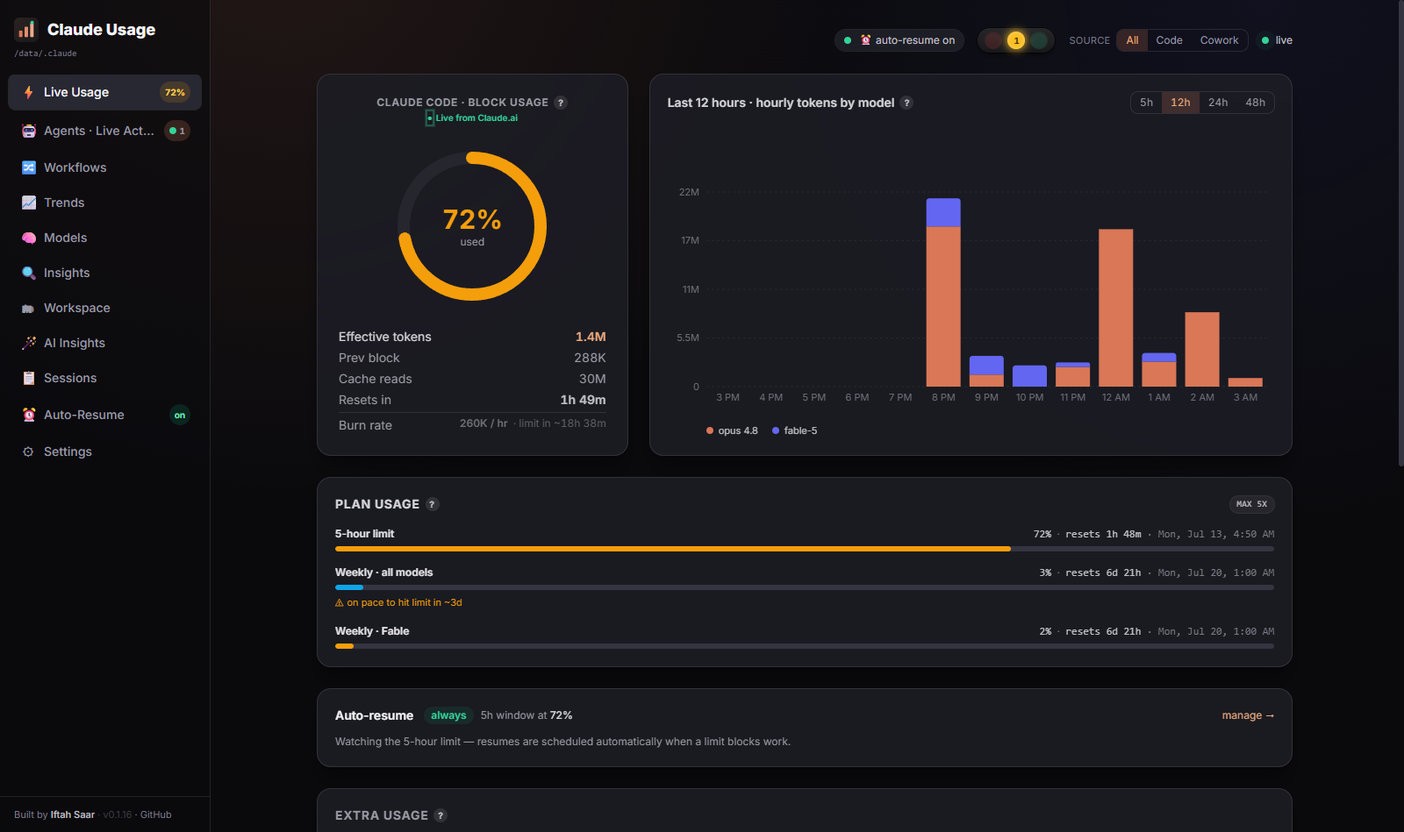
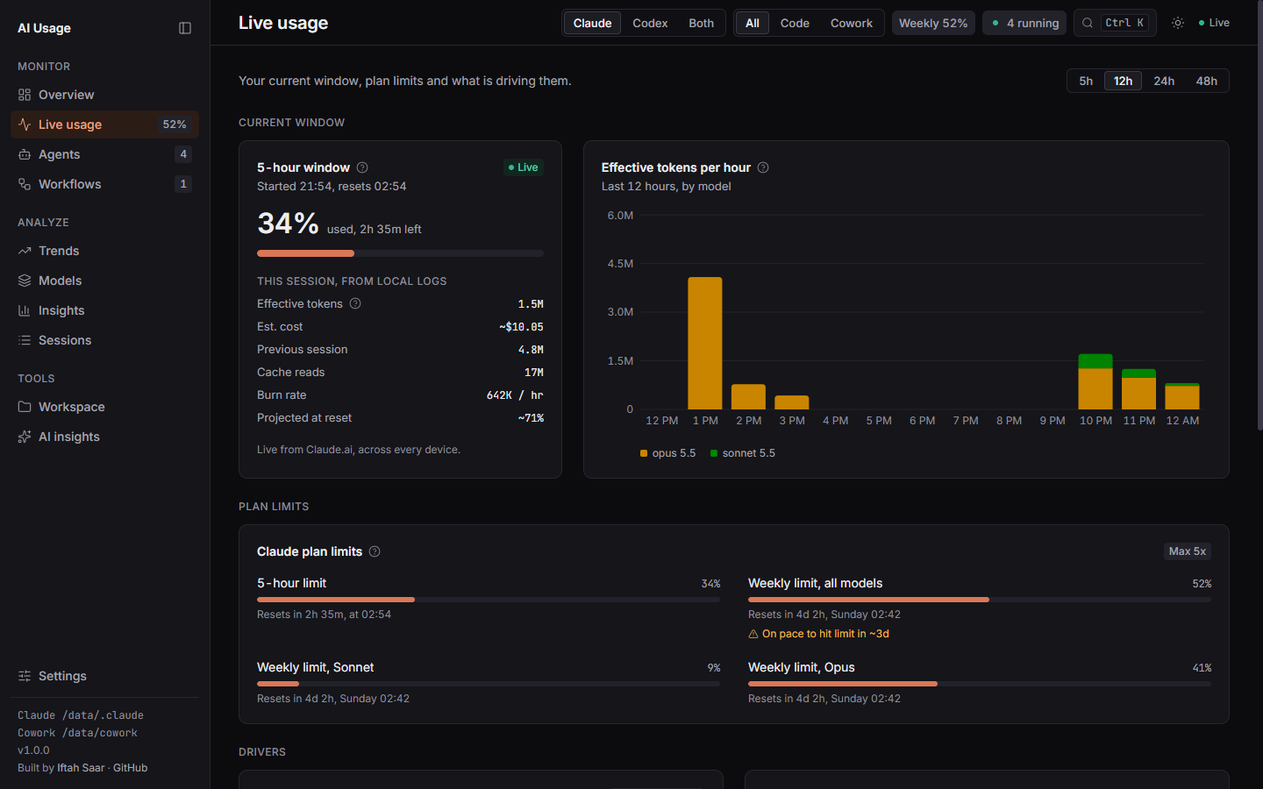
docs: 1.0.0 — README for the redesigned app, new screenshots, changelog
Bump the version to 1.0.0 by hand (explicit release decision; CI's patch
bump is a no-op when the branch version already differs from main and the
changelog entry exists). README describes the new shell, Overview, themes
and command palette; screenshots are re-shot from the redesigned UI with
placeholder project names and titles.

diff --git a/README.md b/README.md
@@ -1,42 +1,59 @@
-# Claude Dashboard
+# AI Usage
 
-A beautiful, **local-first** dashboard for your [Claude Code](https://claude.com/claude-code) usage. It reads the JSON logs Claude Code already writes to `~/.claude` and visualizes them — no API key, no account login. Your usage logs never leave your machine. Use the ChatGPT desktop app too? Its Codex transcripts in `~/.codex` get the same treatment, and a **Claude / Codex / Both** switcher in the header re-points the whole dashboard at either platform — or puts them side by side.
+A calm, **local-first** dashboard for your [Claude Code](https://claude.com/claude-code) usage (the `claude-dashboard` repository; the app calls itself **AI Usage**). It reads the JSON logs Claude Code already writes to `~/.claude` and visualizes them — no API key, no account login. Your usage logs never leave your machine. Use Claude Cowork or the ChatGPT desktop app too? Cowork sessions are picked up from the same kind of logs, and the Codex transcripts in `~/.codex` get the same treatment: a **Claude / Codex / Both** switcher in the top bar re-points the whole dashboard at either platform — or puts them side by side.
 
-Two features are optional and opt-in network paths, both privacy-hardened: **anonymous product analytics** (PostHog — feature-usage events only, switchable off) and **AI Insights** (sends *aggregates only* — never transcripts or file paths — to a model you choose). See [Privacy & telemetry](#privacy--telemetry).
+Two features are optional and opt-in network paths, both privacy-hardened: **anonymous product analytics** (PostHog — feature-usage events only, switchable off) and **AI insights** (sends *aggregates only* — never transcripts or file paths — to a model you choose). See [Privacy & telemetry](#privacy--telemetry).
 
-![Claude Dashboard · Live Usage](.github/screenshots/live-usage.png)
+![AI Usage · Overview](.github/screenshots/overview.png)
 
 ## Interactive Features & Tour
 
-The dashboard is organized as a left **sidebar** with ten destinations. Views are deep-linkable (e.g. `/agents`, `/workflows`, `/ai`), live badges on the sidebar show running agents, the current 5-hour block % and in-flight workflows, and **toast notifications** surface update-available, connection, and account-mode notices.
+The dashboard is a grouped **sidebar** plus a sticky **top bar**. Pages are deep-linkable (e.g. `/overview`, `/agents`, `/workflows`, `/ai`; an unknown path shows Overview), the sub-views inside a page have their own link (`/trends?view=efficiency`), and **toast notifications** surface update-available, connection, and account-mode notices.
+
+### Layout & navigation
+
+* **Sidebar** — the pages in three groups: **Monitor** (Overview, Live usage, Agents, Workflows), **Analyze** (Trends, Models, Insights, Sessions) and **Tools** (Workspace, AI insights), with Settings pinned below them. It collapses to a narrow icon rail, and below 1024 px it turns into a drawer you open from the top bar. Live badges show agents that are running or waiting on you, the current binding limit % (the fuller of the 5-hour and weekly windows) and in-flight workflows.
+* **Top bar** — the page title, the **platform switcher** (Claude / Codex / Both), the **surface toggle** (All / Code / Cowork), a **running-agents chip**, the **limit status**, the command palette button, the theme toggle and a live-data indicator. The surface toggle shows only when Cowork data exists and the platform is Claude, and is hidden on Agents.
+* **Command palette** — press **Ctrl+K** (**⌘K** on macOS) to jump to any page, switch the platform, surface or theme, jump straight to a Settings section, or export the current view as CSV / JSON.
+* **Themes** — dark (the default) and light, switched from the top bar, **Settings → Display** or the palette, and remembered per browser. The look is flat and quiet with a single accent colour and a 12 px minimum text size; Inter and JetBrains Mono ship with the app, so the UI never requests Google Fonts.
+* **Screen sizes** — the layout holds down to tablet width (about 768 px).
+
+![Command palette · Ctrl+K to jump, switch and export](.github/screenshots/command-palette.png)
+
+![Light theme · the same Overview in light](.github/screenshots/light-theme.png)
 
 ### Platform switcher · Claude / Codex / Both
 
-There is no separate Codex tab. When Codex data exists in `~/.codex`, a **platform** switcher appears in the header and re-points the *whole* dashboard:
+There is no separate Codex page. When Codex data exists in `~/.codex`, a **platform** switcher appears in the top bar and re-points the *whole* dashboard:
 
-* **Claude** — Claude Code (plus Cowork, via the secondary Code / Cowork / All source toggle). Exactly the dashboard below, unchanged. Users without Codex data never see the switcher and never leave this mode.
-* **Codex** — the same tabs, reading the ChatGPT desktop agent instead: live 5-hour / weekly Codex limits, plan tier and credits on **Live**; running threads and their **guardian auto-reviews** on **Agents**; GPT models and OpenAI rate cards on **Models**; Codex threads with their real project paths on **Sessions**. Claude-only destinations (Workflows, Workspace) drop out of the sidebar, as do the panels with no Codex counterpart (git branches, permission rejections, slash commands).
+* **Claude** — Claude Code (plus Cowork, via the secondary All / Code / Cowork surface toggle). Exactly the dashboard below, unchanged. Users without Codex data never see the switcher and never leave this mode.
+* **Codex** — the same pages, reading the ChatGPT desktop agent instead: live 5-hour / weekly Codex limits, plan tier and credits on **Live usage**; running threads and their **guardian auto-reviews** on **Agents**; GPT models and OpenAI rate cards on **Models**; Codex threads with their real project paths on **Sessions**. Every page keeps the same panels as under Claude; the one page that drops out of the sidebar is **Workflows**, since Codex records no workflow runs.
 * **Both** — everything combined, plus the comparisons that only exist side by side: a **Claude vs Codex daily chart** and a three-way **Claude Code / Cowork / Codex** split on Trends, a Claude/Codex sub-label on every spend card, and both vendors' rate cards on Models.
 
-### 1. ⚡ Live Usage
-* **Block Gauge**: The current 5-hour block as a radial gauge — effective tokens, % of limit, previous block, cache reads, live **burn rate** (tokens/hr) and a projected time-to-limit.
-* **Plan Usage**: Your real subscription ceilings pulled live from Claude.ai — the **5-hour limit**, the **weekly all-models limit**, and **per-model weekly caps** (Opus / Sonnet / Fable / Cowork). Each bar shows % used, an exact countdown **and the absolute reset date & time**, plus a burn-rate forecast ("on pace to hit limit in ~3d") and your plan tier.
-* **Extra Usage**: Anthropic's overage / credit pool — spend against the monthly limit, or an explanation when your org hasn't enabled it.
-* **What's contributing to your limits usage?**: A cost-weighted breakdown of the day and week by **skill, subagent, plugin and MCP server**.
-* **Spending limits**: Client-side USD caps (daily / weekly / monthly) with progress gauges.
+### Overview
+The landing page: three groups that answer "where do I stand?" at a glance.
+* **Limits**: The 5-hour and weekly windows for each platform, with % used and the reset time.
+* **Running now**: The agents working right now, the ones waiting on you, and running workflows.
+* **Today**: Estimated spend and effective tokens so far today against your 7-day average.
 
-![Plan usage · 5-hour, weekly and per-model caps with exact reset times](.github/screenshots/plan-usage.png)
+### Live usage
+Four groups, from the current window down to your own caps.
+* **Current window**: The current 5-hour block as a gauge — effective tokens, % of limit, previous block, cache reads, live **burn rate** (tokens/hr) and a projected time-to-limit — beside a usage chart you can re-window by hours.
+* **Plan limits**: Your real subscription ceilings pulled live from Claude.ai — the **5-hour limit**, the **weekly all-models limit**, and **per-model weekly caps** (Opus / Sonnet / Fable / Cowork). Each bar shows % used, an exact countdown **and the absolute reset date & time**, plus a burn-rate forecast ("on pace to hit limit in ~3d") and your plan tier. Next to it, **Extra usage**: Anthropic's overage / credit pool — spend against the monthly limit, or an explanation when your org hasn't enabled it.
+* **Drivers**: What's contributing to your limits usage — a cost-weighted breakdown of the day and week by **skill, subagent, plugin and MCP server** — and the **limit hits** you ran into.
+* **Spend against your caps**: Client-side USD caps (daily / weekly / monthly) with progress gauges.
 
-### 2. 🤖 Agents · Live Activity
-Real-time view of what Claude Code is doing **right now**, reconstructed live from the session transcripts on disk.
-* **Live Main Sessions**: Each active session shows its first prompt, project, git branch, model, and effective tokens.
-* **Live Subagents**: Spawned subagents (Task/Explore/etc.) appear nested under their parent session with their own model and token counts while they run, then settle into a recently-completed state.
-* **Traffic-light status**: Green = finished, amber = running, **red = waiting for you**. A red agent lights the header signal and the sidebar badge from any tab, and can raise a **browser notification and/or chime** (configurable in Settings).
-* **Idle Lifecycle**: Main sessions dim after 30s of inactivity and drop after 60s; completed subagents no longer keep an idle parent card alive.
+![Live usage · current window, plan limits, drivers and spend caps](.github/screenshots/live-usage.png)
 
-![Agents · Live Activity, with the sidebar and nested subagents](.github/screenshots/agents.png)
+### Agents
+Real-time view of what your agents are doing **right now**, reconstructed live from the session transcripts on disk.
+* **Now**: Each active main session shows its first prompt, project, git branch, model, and effective tokens, with its spawned subagents (Task/Explore/etc.) nested beneath it with their own model and token counts while they run, then settling into a recently-completed state.
+* **Traffic-light status**: Green = finished, amber = running, **red = waiting for you**. A session whose turn finished cleanly shows as "your turn" for up to five minutes — a soft state, never an alert. A red agent lights the top-bar chip and the sidebar badge from any page, and can raise a **browser notification and/or chime** (configurable in Settings → Alerts).
+* **History**: Subagent spawns over the last 30 days — how many, how many per session that delegated, and which types did the work.
 
-### 3. 🔀 Workflows
+![Agents · what is running now, with nested subagents](.github/screenshots/agents.png)
+
+### Workflows
 Live and recent **dynamic-workflow runs** (Claude Code's multi-agent orchestration), so you can watch a fan-out unfold.
 * **Live Runs**: Phase progress with per-agent labels, model, tokens and tool calls.
 * **All-time stats**: Runs, success rate, total tokens, agents spawned, average duration, top model, estimated cost, tool calls and your busiest day.
@@ -44,66 +61,61 @@ Live and recent **dynamic-workflow runs** (Claude Code's multi-agent orchestrati
 
 ![Workflows · live & recent runs with all-time stats](.github/screenshots/workflows.png)
 
-### 4. 📈 Trends
-* **Tokens vs. Cost toggle**: Switch the daily stacked bar chart between **Tokens** and **Cost (USD)**, over a 1-week to 1-year window (presets 1w · 2w · 1m · 2m · 3m · 6m · 1y).
-* **Projection**: A dotted projection past today, plus projected month-end cost.
-* **Cache Efficiency**: Daily cache hit-rate line (cache reads / total tokens).
-* **Peak Hours Heatmap** (7×24) and an 18-week **Activity Grid**.
-* **Spend report**: One-click **CSV / JSON export** of the full report (summary + per-day + per-model), plus a separate export on the daily chart.
-* **Sources split** (when Cowork data exists) and an **"Actual billed"** section when a [LiteLLM gateway](#optional-integrations) is configured.
+### Trends
+Three sub-tabs, with a range selector from 1 week to 1 year (1w · 2w · 1m · 2m · 3m · 6m · 1y) and a one-click **CSV / JSON export** of the full spend report (summary + per-day + per-model).
+* **Spend**: Summary tiles and the daily stacked bar chart, switchable between **Tokens** and **Cost (USD)**, with a dotted projection past today and a projected month-end cost; a separate export on the daily chart. A **sources split** (when Cowork data exists), the **Claude vs Codex** comparison under Both, and an **"Actual billed"** card when a [LiteLLM gateway](#optional-integrations) is configured.
+* **Efficiency**: Daily cache hit-rate line (cache reads / total tokens).
+* **Activity**: The **Peak Hours Heatmap** (7×24), an activity summary and an 18-week **Activity Grid**.
 
 ![Trends · daily tokens/cost, projection, cache efficiency, exports](.github/screenshots/trends.png)
 
-### 5. 🧠 Models
-* **Model Breakdown**: Donut of token share across your models, with **$ per 1M effective tokens** for each.
-* **Tool Usage**: Your most frequently called tools (Bash, Read, Edit, MCP tools…).
-* **Cost Calculation Explained**: A per-model pay-as-you-go price table (input / output / cache-write / cache-read per 1M) and an **interactive calculator** you can drag to price any token mix.
+### Models
+* **Mix**: A donut of token share across your models with **$ per 1M effective tokens** for each, next to the **reasoning effort** levels you ran them at.
+* **Pricing**: A per-model pay-as-you-go price table (input / output / cache-write / cache-read per 1M) and an **interactive calculator** — type a token count for each kind to price any mix.
 
-![Models · breakdown, cost-efficiency, interactive calculator](.github/screenshots/models.png)
+![Models · mix, reasoning effort, pricing and calculator](.github/screenshots/models.png)
 
-### 6. 🔍 Insights
-Deep analytics mined from your session transcripts over a 7 / 14 / 30-day window, surfacing patterns you can't see in raw token counts. Every panel has an **✨ AI** button that explains it in plain language.
-* **Headline Metrics**: Error rate, one-shot rate, delegation rate, and estimated wasted tokens.
-* **Tool Errors**: Which tools fail most, by category and by tool, with errors-per-day.
-* **Languages by file type**, **tokens by git branch**, **MCP vs built-in** tool split, and **permission rejections by tool**.
-* **Session Complexity**, **Yield (committed vs uncommitted)**, **Subagent delegation**, **Edit-retry / one-shot accuracy**, **slash-command & skill usage**, and **file churn**.
+### Insights
+Deep analytics mined from your session transcripts over a 7 / 14 / 30-day window, surfacing patterns you can't see in raw token counts. A summary row (error rate, one-shot rate, delegation rate, estimated wasted tokens) sits above four sub-tabs, and each loads its data only when you open it. Most panels have an **AI** button that explains the panel in plain language.
+* **Reliability**: Which tools fail most, by category and by tool, with errors-per-day; **permission rejections by tool**; **edit-retry / one-shot accuracy**.
+* **Tools**: **Tool usage** (Bash, Read, Edit, MCP tools…), the **MCP vs built-in** split, **slash-command & skill usage** and **subagent delegation**.
+* **Code**: **Languages by file type**, **tokens by git branch**, **Yield** (committed vs uncommitted) and **file churn**.
+* **Pace**: **Session complexity** and **turn latency**.
 
 ![Insights · analytics mined from transcripts](.github/screenshots/insights.png)
 
-### 7. 🗂 Workspace
-Your Claude Code working state on disk, beyond raw usage.
-* **Tasks**: Counts by status (completed / in-progress / pending / blocked) with completion %.
-* **Plans**: The plan documents under `~/.claude/plans` with title, age, and size.
-* **Plugins & MCP Inventory**: Installed plugins and marketplaces, registered MCP servers (with scope), hooks, and your effort level / default model.
+### Sessions
+* **Sessions**: The session history log, rebuilt live from the JSONL transcripts (not stale sidecar files). Each row shows start time, project, first prompt, duration and tokens, 20 rows to a page, with **full-text search across transcripts** and **CSV/JSON export**. Click any session to read the whole run — per-turn tool chips, models and compaction count.
+* **Projects and tags**: Ranks estimated cost, time, tokens and files modified across all your project directories — each project taggable, with a **spend-by-tag** rollup.
 
-![Workspace · tasks, plans, plugins & MCP inventory](.github/screenshots/workspace.png)
+![Sessions · history log, project analytics & tags](.github/screenshots/sessions.png)
 
-### 8. 🪄 AI Insights
+### Workspace
+Your agent working state on disk, beyond raw usage.
+* **Profile**: Your Claude Code config at a glance — default model, effort level, subscription / rate-limit tier, permission mode, auto-update channel, authorized workspaces, and approved command prefixes (and Codex's config, under Codex or Both).
+* **Integrations**: What is installed on this machine — MCP servers, plugins, marketplaces, skills, automations and hooks.
+* **Tasks and plans**: Task counts by status (completed / in-progress / pending / blocked) with completion %, and the plan documents under `~/.claude/plans` with title, age, and size.
+
+![Workspace · profile, integrations, tasks & plans](.github/screenshots/workspace.png)
+
+### AI insights
 Ask questions about your own usage in plain language, and get per-section explanations on demand.
 * **Chat**: A streaming conversation over your usage **aggregates** ("which project costs the most?", "am I retrying edits too much?"), with conversation-aware follow-up suggestions. The model only ever sees aggregate metrics — no transcripts, no file paths.
-* **Per-section ✨ AI**: An "✨ AI" button on most panels writes a short plain-language summary of just that chart.
-* **Bring-your-own backend**: Works out of the box with the local `claude` CLI or your Claude.ai token; or set a provider + model + API key (Claude / OpenAI / Gemini) in Settings. The badge in the corner names whichever backend answered. See [AI Insights privacy](#ai-insights-opt-in).
+* **Per-section AI buttons**: A sparkles button on most panels writes a short plain-language summary of just that chart.
+* **Bring-your-own backend**: Works out of the box with the local `claude` CLI or your Claude.ai token; or set a provider + model + API key (Claude / OpenAI / Gemini) in Settings → AI. The badge in the corner names whichever backend answered. See [AI insights privacy](#ai-insights-opt-in).
 
-![AI Insights · chat over your usage aggregates](.github/screenshots/ai-insights.png)
+![AI insights · chat over your usage aggregates](.github/screenshots/ai-insights.png)
 
-### 9. 📋 Sessions
-* **Config Profile**: Your Claude Code config at a glance — default model, effort level, subscription / rate-limit tier, permission mode, auto-update channel, authorized workspaces, and approved command prefixes.
-* **Workspace Analytics**: Ranks estimated cost, time, tokens and files modified across all your project directories — each project taggable, with a **spend-by-tag** rollup.
-* **Session History Log**: Rebuilt live from the JSONL transcripts (not stale sidecar files). Each row shows start time, project, first prompt, duration and tokens, with **full-text search across transcripts** and **CSV/JSON export**.
-* **Transcript modal**: Click any session to read the whole run — per-turn tool chips, models and compaction count.
+### Settings
+Pinned to the bottom of the sidebar, in six sections you can jump to from the palette (`/settings#alerts`): **General** (usage mode: auto / subscription / API), **Display** (theme, week start), **Alerts** (agent alerts — visual / notification / sound — and rate-limit alert thresholds), **Spending limits** (USD caps with budget alerts at the first crossing of 70 / 90 / 100% of a cap), **AI** (provider, model, API key — stored only in your browser) and **Data** (the history archive, data folders, version and update, and the **telemetry** opt-out).
 
-![Sessions · config profile, project analytics & tags](.github/screenshots/sessions.png)
-
-### 10. ⚙ Settings
-A full-screen settings view (pinned to the bottom of the sidebar) for **usage mode** (auto / subscription / API), **agent alerts** (visual / notification / sound), **week start**, **spending limits** + **budget alerts** (first crossing of 70 / 90 / 100% of a cap), **AI Insights** (provider, model, API key — stored only in your browser), and **telemetry** opt-out.
-
-![Settings · usage mode, alerts, spend caps, AI provider, telemetry](.github/screenshots/settings.png)
+![Settings · usage mode, display, alerts, spend caps, AI provider, data](.github/screenshots/settings.png)
 
 ---
 
 ## Quick start
 
-Requires [Node.js](https://nodejs.org) 20+ (the active LTS — some dependencies require it).
+Requires [Node.js](https://nodejs.org) 22.5+ (`engines` in `package.json`; the parsed-scan cache uses the built-in `node:sqlite`, and the Docker image runs Node 24).
 
 ```bash
 git clone https://github.com/iftahs/claude-dashboard.git
@@ -117,19 +129,25 @@ Then open the URL Vite prints (default <http://localhost:5180>). The dashboard p
 `npm run dev` starts two processes via `concurrently`:
 
 - a small **Express backend** (port `8788` in dev) that scans `~/.claude` and serves aggregated JSON,
-- the **Vite** dev server for the React UI, which proxies `/api` to the backend.
+- the **Vite** dev server for the React UI (port `5180`), which proxies `/api` to the backend.
 
 Other scripts:
 
 ```bash
-npm run build     # typecheck (tsc -b) + production build into dist/
+npm run build     # typecheck (tsc -b) + design-system lint + production build into dist/
 npm run preview   # serve the built dist/ locally
+npm run typecheck # tsc -b only
+npm test          # node:test unit tests for the server logic
+npm run lint      # design-system check (tiers, tokens, folder contract) — no ESLint
+npm run verify    # typecheck + tests + lint: the bar before a change is done
+npm run docs:ds   # regenerate the component index in src/components/design-system/design.md
+npm run tokens    # regenerate src/styles/tokens.css from src/styles/tokens.json
 npm run docker:up # rebuild + (re)start the container — run after every code change
 npm run docker:down
 npm run docker:logs
 ```
 
-There is no test or lint script — a clean `npx tsc -b` (TypeScript `strict`) is the bar.
+Fonts are self-hosted (Inter and JetBrains Mono come from npm packages and are bundled into the build), so the app makes no Google Fonts request.
 
 ## Run with Docker (always-on)
 
@@ -149,7 +167,7 @@ Want the dashboard always available without running `npm` each time? Run it as a
 
    If you use the ChatGPT desktop app, `npm run docker:up` also fills in `CODEX_DIR_HOST` (your `~/.codex`) so the container can read Codex data; leave it blank to opt out.
 
-   To enable the **AI Insights** backend in Docker, either set `WITH_CLAUDE_CLI=1` (bundles the `claude` CLI so it can run `claude -p` against your mounted token) or provide an `ANTHROPIC_API_KEY` — both are documented in [`.env.example`](.env.example). You can also just set an API key at runtime in ⚙ Settings instead.
+   To enable the **AI insights** backend in Docker, either set `WITH_CLAUDE_CLI=1` (bundles the `claude` CLI so it can run `claude -p` against your mounted token) or provide an `ANTHROPIC_API_KEY` — both are documented in [`.env.example`](.env.example). You can also just set an API key at runtime in Settings → AI instead.
 
 2. Build and start:
 
@@ -159,7 +177,7 @@ Want the dashboard always available without running `npm` each time? Run it as a
 
 3. Open <http://localhost:8787>.
 
-**It only answers on this machine.** The port is published on `127.0.0.1`, and that is what keeps it local. The server also rejects requests whose `Host` isn't `localhost`, `127.0.0.1` or `::1`, and any cross-site or non-JSON `POST`, so web pages you visit can't reach it through DNS rebinding or a forged form. Those checks protect your browser; they are not access control. The API serves your transcripts and can spend your Claude quota through AI Insights, so it is not exposed to your network by default. To open it from another device on your LAN, set both in `.env` and rerun `npm run docker:up`:
+**It only answers on this machine.** The port is published on `127.0.0.1`, and that is what keeps it local. The server also rejects requests whose `Host` isn't `localhost`, `127.0.0.1` or `::1`, and any cross-site or non-JSON `POST`, so web pages you visit can't reach it through DNS rebinding or a forged form. Those checks protect your browser; they are not access control. The API serves your transcripts and can spend your Claude quota through AI insights, so it is not exposed to your network by default. To open it from another device on your LAN, set both in `.env` and rerun `npm run docker:up`:
 
 ```
 DASHBOARD_BIND=0.0.0.0
@@ -176,17 +194,21 @@ The container uses `restart: unless-stopped`, so it comes back automatically aft
 
 All are auto-detected — if you don't use them, nothing changes in the UI.
 
-- **Cowork** — Claude's desktop app writes standard Claude Code JSONL in its own folder. When the dashboard finds it, a **source toggle (Code / Cowork / All)** appears in the header and a Code-vs-Cowork split shows up on Trends. Code-only users see the dashboard unchanged. Point `COWORK_DIR` / `COWORK_DIR_HOST` at it only if it lives somewhere non-standard.
-- **ChatGPT desktop / Codex** — the ChatGPT desktop app's coding agent (Codex) keeps its transcripts in `~/.codex`. When that folder exists a **[platform switcher](#platform-switcher--claude--codex--both) (Claude / Codex / Both)** appears in the header and re-points the whole dashboard — Live, Agents, Trends, Models, Sessions, Projects and Insights all read Codex instead of Claude, or both at once with a side-by-side daily comparison. Costs for Codex are OpenAI list-price estimates (gpt-5.5 / gpt-5.6 / gpt-6 rates; the internal review model is unpriced). Set `CODEX_DIR` / `CODEX_DIR_HOST` only for a non-standard location; `npm run docker:up` writes `CODEX_DIR_HOST` for you, and a blank value opts out.
+- **Cowork** — Claude's desktop app writes standard Claude Code JSONL in its own folder. When the dashboard finds it, a **surface toggle (All / Code / Cowork)** appears in the top bar and a Code-vs-Cowork split shows up on Trends. Code-only users see the dashboard unchanged. Point `COWORK_DIR` / `COWORK_DIR_HOST` at it only if it lives somewhere non-standard.
+- **ChatGPT desktop / Codex** — the ChatGPT desktop app's coding agent (Codex) keeps its transcripts in `~/.codex`. When that folder exists a **[platform switcher](#platform-switcher--claude--codex--both) (Claude / Codex / Both)** appears in the top bar and re-points the whole dashboard — Overview, Live usage, Agents, Trends, Models, Insights, Sessions and Workspace all read Codex instead of Claude, or both at once with a side-by-side daily comparison. Costs for Codex are OpenAI list-price estimates (gpt-5.5 / gpt-5.6 / gpt-6 rates; the internal review model is unpriced). Set `CODEX_DIR` / `CODEX_DIR_HOST` only for a non-standard location; `npm run docker:up` writes `CODEX_DIR_HOST` for you, and a blank value opts out.
 - **LiteLLM gateway** — if you route Claude Code through a [LiteLLM](https://litellm.ai) proxy, set `LITELLM_BASE_URL` / `LITELLM_API_KEY` (or just reuse `ANTHROPIC_BASE_URL` / `ANTHROPIC_AUTH_TOKEN`) and the dashboard will show your **real billed cost** — month-to-date and per-day on Trends, and against your spend caps — instead of the estimate.
+
+## Live limits and sign-in
+
+The live limit bars (Overview, Live usage and the top-bar limit status) need a valid Claude sign-in token on disk — the one Claude Code already stores. If the dashboard says the OAuth token or Claude.ai session has expired, run `claude` once in a terminal: Claude Code rewrites `~/.claude/.credentials.json` and the dashboard picks it up on the next poll, with no rebuild or restart. Until then the page falls back to estimates computed from your local logs. On macOS with Docker, the token lives in the Keychain — see below.
 
 ## macOS: keeping the OAuth token fresh
 
-On macOS, Claude Code stores its OAuth token in the **Keychain**, which a Docker container can't reach. `npm run docker:up` therefore copies the token into `~/.claude/.dashboard-oauth-cache.json` (read by the container) *and* installs a small launchd agent (`com.claude-dashboard.token-sync`) that re-syncs it every 15 minutes — otherwise the snapshot's access token expires within hours and the Live tab degrades to "OAuth token expired". The running container picks up the refreshed file automatically; no rebuild or restart needed.
+On macOS, Claude Code stores its OAuth token in the **Keychain**, which a Docker container can't reach. `npm run docker:up` therefore copies the token into `~/.claude/.dashboard-oauth-cache.json` (read by the container) *and* installs a small launchd agent (`com.claude-dashboard.token-sync`) that re-syncs it every 15 minutes — otherwise the snapshot's access token expires within hours and the Live usage page degrades to "OAuth token expired". The running container picks up the refreshed file automatically; no rebuild or restart needed.
 
 - `npm run token-sync:status` — check the agent + cached-token health
 - `npm run token-sync` — one-shot manual sync
-- `npm run token-sync:uninstall` — remove the agent (the Live tab will then show "OAuth token expired" a few hours after each `docker:up`)
+- `npm run token-sync:uninstall` — remove the agent (Live usage will then show "OAuth token expired" a few hours after each `docker:up`)
 - Log: `~/Library/Logs/claude-dashboard/token-sync.log`
 
 The agent bakes in the absolute paths of your `node` binary and this repo, so re-run `npm run token-sync:install` (or just `npm run docker:up`, which self-heals it) after upgrading/removing that Node version or moving the repo. If you have several checkouts, the last one to install wins — harmless, they all write the same cache file. **Linux/Windows are unaffected**: there Claude Code keeps `~/.claude/.credentials.json` fresh itself and the container reads it directly.
@@ -200,7 +222,7 @@ By default the backend reads from your home directory:
 | Windows | `C:\Users\<you>\.claude` |
 | macOS / Linux | `~/.claude` |
 
-This is detected automatically — the path shown in the dashboard header is just *your* machine's home folder at runtime. If your logs live somewhere else (a custom install, a backup, another user's export), point the backend at it with the `CLAUDE_DIR` environment variable:
+This is detected automatically — the path shown in the sidebar is just *your* machine's home folder at runtime. If your logs live somewhere else (a custom install, a backup, another user's export), point the backend at it with the `CLAUDE_DIR` environment variable:
 
 **macOS / Linux**
 ```bash
@@ -217,19 +239,19 @@ $env:CLAUDE_DIR = "D:\backups\.claude"; npm run dev
 set CLAUDE_DIR=D:\backups\.claude && npm run dev
 ```
 
-To change the backend port, set `SERVER_PORT`. If you change it, update the proxy target in `vite.config.ts` to match.
+To change the backend port, set `SERVER_PORT`. `vite.config.ts` reads the same variable for its `/api` proxy, so if you start the backend and the UI in separate shells, give both the same value.
 
 ## What this dashboard can and can't show
 
 Everything is derived from what Claude Code records locally, plus the OAuth token it already stores — which is enough to show your **real** limits:
 
-- ✅ **Exact reset times and % used** for the 5-hour window, the weekly all-models cap and each per-model cap, read live from Anthropic's usage API with your existing token — including your plan tier and any extra-usage credits.
-- ⚠ **Costs are an *estimated equivalent* API price.** A subscription has no per-token bill, so the dollar figures answer "what would this have cost on pay-as-you-go?" — they are not an invoice. Configure a [LiteLLM gateway](#optional-integrations) to see real billed amounts instead.
-- ❌ **Claude.ai web / desktop chat usage** — that's server-side per-conversation and never written to `~/.claude`.
-- ❌ **Cowork sessions running in full-VM sandbox mode** — their transcripts stay inside the VM, so there's nothing on disk to read.
-- ⚠ **Codex (ChatGPT desktop)** — local rollouts cover threads run on this machine; Codex Cloud tasks, ChatGPT web chats and mobile usage only appear in the server-side daily series the Codex platform view fetches with your token. Guardian auto-review tokens are folded into their parent thread.
+- **Real limits:** exact reset times and % used for the 5-hour window, the weekly all-models cap and each per-model cap, read live from Anthropic's usage API with your existing token — including your plan tier and any extra-usage credits.
+- **Estimated costs:** the dollar figures are an *estimated equivalent* API price. A subscription has no per-token bill, so they answer "what would this have cost on pay-as-you-go?" — they are not an invoice. Configure a [LiteLLM gateway](#optional-integrations) to see real billed amounts instead.
+- **Not shown — Claude.ai web / desktop chat usage:** that's server-side per-conversation and never written to `~/.claude`.
+- **Not shown — Cowork sessions running in full-VM sandbox mode:** their transcripts stay inside the VM, so there's nothing on disk to read.
+- **Partial — Codex (ChatGPT desktop):** local rollouts cover threads run on this machine; Codex Cloud tasks, ChatGPT web chats and mobile usage only appear in the server-side daily series the Codex platform view fetches with your token. Guardian auto-review tokens are folded into their parent thread.
 
-You can also set your own USD **spending caps** in ⚙ Settings to get gauges and budget alerts against those estimates.
+You can also set your own USD **spending caps** in Settings → Spending limits to get gauges and budget alerts against those estimates.
 
 ## Privacy & telemetry
 
@@ -239,21 +261,21 @@ Your Claude usage data — logs, tokens, project paths, session contents — **n
 
 The app sends **anonymous product-analytics events** to [PostHog](https://posthog.com) so the author can see how many people use the dashboard and which features matter. This is deliberately minimal and privacy-hardened:
 
-- **What's sent:** which tab is opened, exports, source-toggle/range changes, an anonymous install count, and a coarse plan/usage-mode label.
+- **What's sent:** which page is opened, exports, source-toggle/range changes, an anonymous install count, and a coarse plan/usage-mode label. Theme, sidebar and command-palette actions send nothing.
 - **What's *never* sent:** OAuth tokens, file or project paths, project names, session IDs, transcript content, or any personal data. Browser autocapture and session replay are turned **off** so the UI's on-screen paths can't be scraped.
 - **Opt out any time:**
-  - In the app: **⚙ Settings → Telemetry → Disable anonymous analytics** (takes effect immediately, persisted in your browser).
+  - In the app: **Settings → Data → Telemetry** (takes effect immediately, persisted in your browser).
   - At build time: build with `VITE_DISABLE_ANALYTICS=1` (set it in `.env` for Docker — see [`.env.example`](.env.example)) for a fully telemetry-free image.
 - Analytics is also disabled automatically in local dev builds.
 
-### AI Insights (opt-in)
+### AI insights (opt-in)
 
-The AI Insights tab and the per-section "✨ AI" buttons call a model **only when you ask** (open the tab, send a message, or click a button). What's sent is a **privacy-safe aggregate summary** — weekly totals, top models/tools/projects (project *basenames* only), error/retry/delegation rates, and similar metrics.
+The AI insights page and the per-section AI buttons call a model **only when you ask** (open the page, send a message, or click a button). What's sent is a **privacy-safe aggregate summary** — weekly totals, top models/tools/projects (project *basenames* only), error/retry/delegation rates, and similar metrics.
 
 - **What's *never* sent:** transcripts or message contents, full file/project paths, session IDs, or your OAuth token.
-- **Which backend serves the call** (first available wins): an API key you set in **⚙ Settings → AI Insights** (Claude / OpenAI / Gemini, stored only in your browser) → a server-side `ANTHROPIC_API_KEY` → the local `claude` CLI (`claude -p`, uses your subscription) → your Claude.ai OAuth token → otherwise the feature shows setup instructions and does nothing.
+- **Which backend serves the call** (first available wins): an API key you set in **Settings → AI** (Claude / OpenAI / Gemini, stored only in your browser) → a server-side `ANTHROPIC_API_KEY` → the local `claude` CLI (`claude -p`, uses your subscription) → your Claude.ai OAuth token → otherwise the feature shows setup instructions and does nothing.
 - **Server-side defaults** for Docker/self-host live in [`.env.example`](.env.example): `WITH_CLAUDE_CLI=1`, `ANTHROPIC_API_KEY`, and `AI_MODEL` (default `claude-opus-5-5`).
-- If you never open the AI tab or click "✨ AI", **no aggregates are ever sent.**
+- If you never open the AI insights page or click an AI button, **no aggregates are ever sent.**
 
 ## Contributing
 
@@ -261,6 +283,8 @@ Contributions welcome! This is an open project:
 
 - **Found a bug or have an idea?** [Open an issue](https://github.com/iftahs/claude-dashboard/issues).
 - **Want to change something?** Fork the repo, create a branch, and [open a pull request](https://github.com/iftahs/claude-dashboard/pulls).
+
+The UI is built on a strict atomic design system: components live in `src/components/design-system/{atoms,molecules,organisms,templates}`, each page is a thin component in `src/pages` wired by one `use<Name>Page` hook in `src/hooks`, and all business logic stays in hooks. `npm run lint` enforces the tier import rules and the design tokens (no raw hex, no ad-hoc sizes), and `npm run verify` runs the typecheck, tests and lint together. Read [`src/components/design-system/design.md`](src/components/design-system/design.md) — the component index — before building or changing any UI.
 
 The `main` branch is maintained by the author; all external changes go through pull requests.
 

diff --git a/CHANGELOG.md b/CHANGELOG.md
@@ -5,6 +5,54 @@ All notable changes to this project are documented here.
 The format is based on [Keep a Changelog](https://keepachangelog.com/en/1.1.0/),
 and this project adheres to [Semantic Versioning](https://semver.org/spec/v2.0.0.html).
 
+## [1.0.0] - 2026-10-07
+
+### Added
+- **Redesigned interface.** The whole frontend is rebuilt: a calm, flat look with a single
+  accent, a 12 px minimum text size, and Inter / JetBrains Mono bundled with the app.
+- **Light theme** alongside dark (dark stays the default). Switch it from the top bar,
+  Settings or the command palette; the choice is remembered per browser.
+- **Overview**, a new landing page: limits at a glance (5-hour and weekly per platform),
+  what is running now, and today's estimated spend and effective tokens against the
+  7-day average.
+- **Grouped, collapsible sidebar** (Monitor / Analyze / Tools, Settings pinned below) and a
+  sticky top bar with the platform and surface switchers, a running-agents chip and the
+  limit status. Below 1024 px the sidebar becomes a drawer; the layout holds down to about
+  768 px.
+- **Command palette** on Ctrl+K / ⌘K: jump to any page, switch platform, surface or
+  theme, jump to a Settings section, and export the current view.
+- A reusable **atomic design system** (atoms, molecules, organisms, templates) with a doc
+  per component, a generated component index, and `npm run lint`, a check that fails the
+  build on tier or token violations. `npm run verify` runs typecheck, tests and lint.
+- Page-level and app-level **error boundaries**: a crash in one page no longer blanks the
+  whole app.
+
+### Changed
+- Pages are regrouped with sub-tabs (Trends: Spend / Efficiency / Activity; Insights:
+  Reliability / Tools / Code / Pace; Sessions: Sessions / Projects and tags) and share one
+  header layout. Nothing was removed. Insights now loads only the active sub-tab's data
+  instead of every panel at once.
+- The Sessions table shows 20 rows per page, the Models cost calculator takes numeric
+  inputs, the page name is part of the browser tab title, and moving between pages adds
+  browser history entries.
+- **Much faster page loads in Docker.** The server answers from the previous scan (at most
+  30 s old) while a rescan runs in the background instead of making every request wait for
+  it, and the workflows list is cached the same way. On a Windows bind mount this took
+  typical API responses from seconds to tens of milliseconds.
+- Static assets are served precompressed with long-lived caching, and the entry bundle is
+  about half its previous size.
+- `/api/insights/mcp` moved to `/api/insights/mcp-servers`: some antivirus web shields
+  corrupt responses on URLs ending in `mcp`.
+- Fonts are bundled, so the app no longer requests Google Fonts.
+
+### Fixed
+- The dashboard no longer reports "API · pay-as-you-go" for a subscriber while Claude Code
+  is mid sign-in and the access token on disk is briefly blank.
+- Estimated limit bars, shown when live limits are unavailable, are no longer presented as
+  a reached limit.
+- The layout no longer jumps while the page loads.
+- The reasoning-effort levels on Models are visually distinguishable.
+
 ## [0.1.27] - 2026-09-23
 
 ### Added
@@ -402,6 +450,7 @@ and this project adheres to [Semantic Versioning](https://semver.org/spec/v2.0.0
 - Live-API fallback to the local logs when there is no active block
   (`resets_at = null`).
 
+[1.0.0]: https://github.com/iftahs/claude-dashboard/releases/tag/v1.0.0
 [0.1.23]: https://github.com/iftahs/claude-dashboard/releases/tag/v0.1.23
 [0.1.22]: https://github.com/iftahs/claude-dashboard/releases/tag/v0.1.22
 [0.1.21]: https://github.com/iftahs/claude-dashboard/releases/tag/v0.1.21
